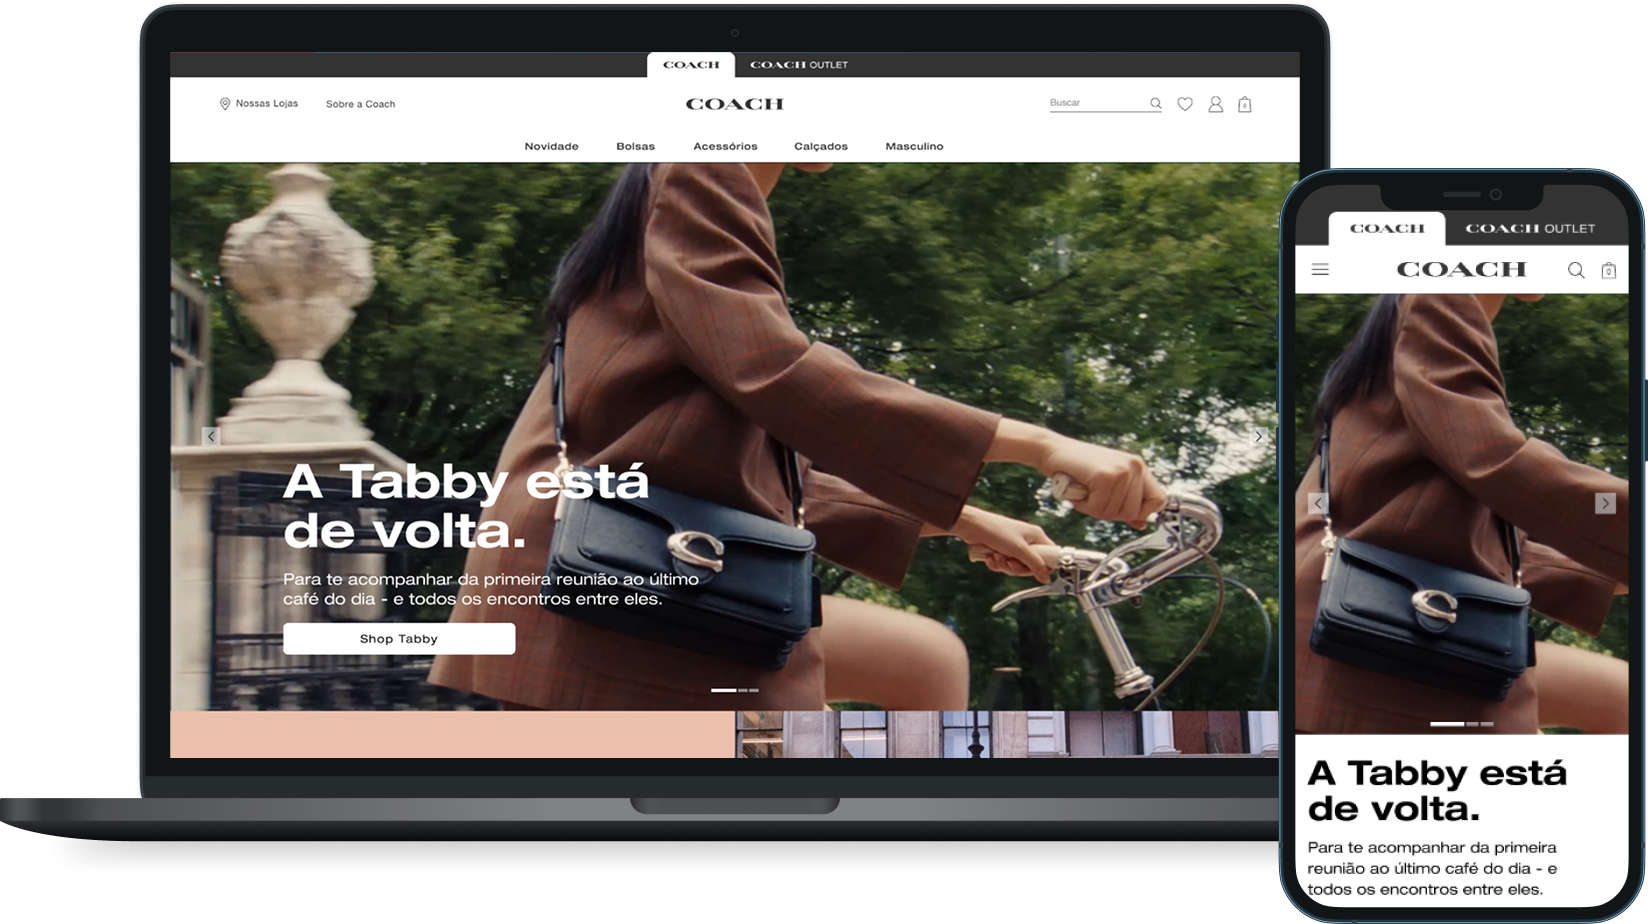
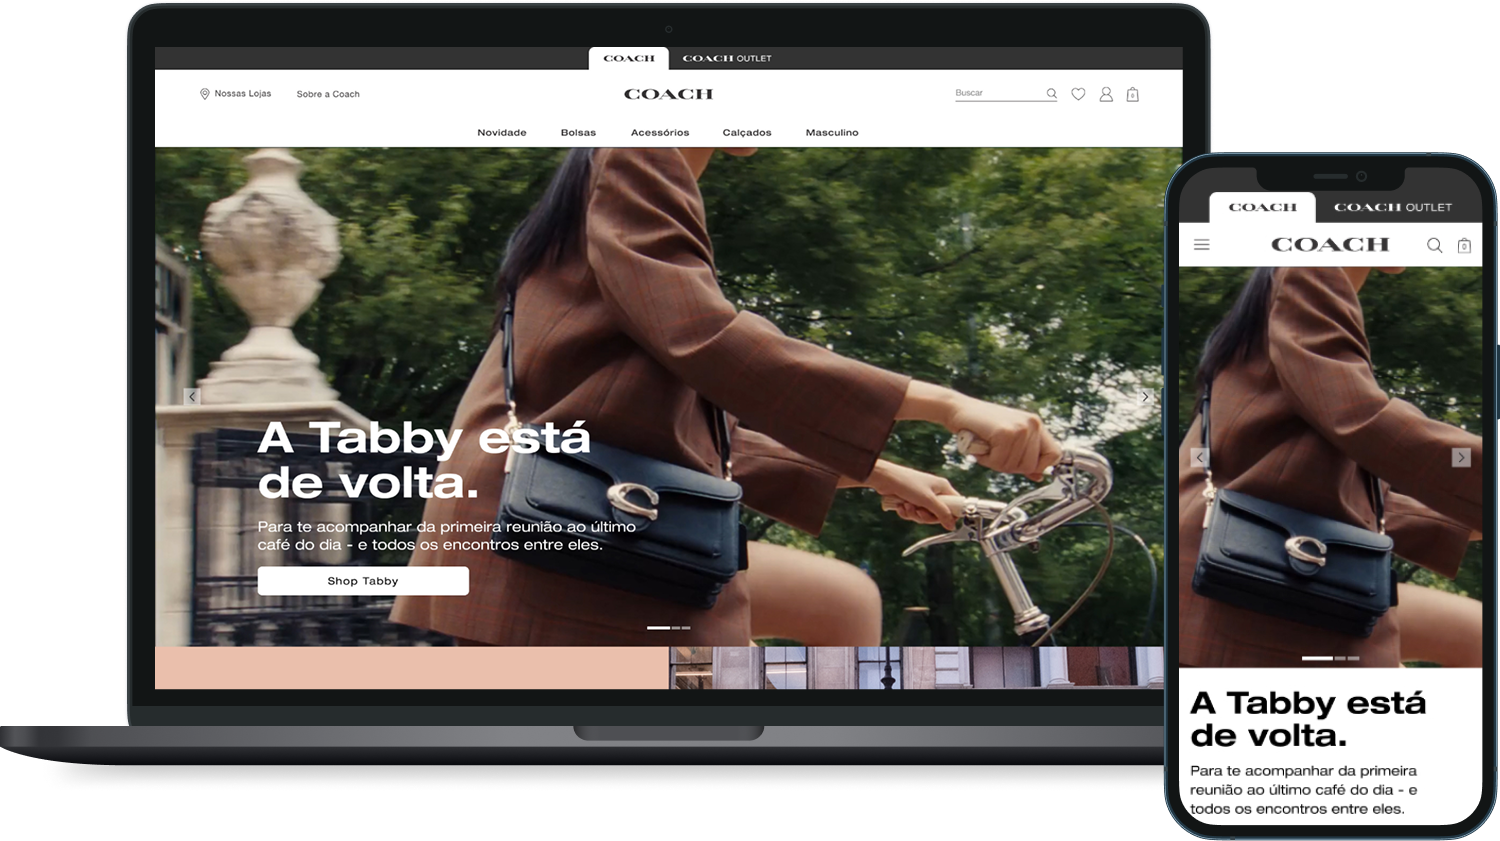
feat: add eager loading to images in Hero and HeroCases components

diff --git a/src/components/CasesPage/Hero.tsx b/src/components/CasesPage/Hero.tsx
@@ -40,7 +40,8 @@ export default function HeroCases({ project }: CaseProps) {
                     alt={project.title}
                     width={1000}
                     height={558.25}
-                    className="h-auto object-cover w-206 2xl:w-250"
+                    loading="eager"
+                    className="h-auto object-cover w-206 2xl:w-250 2xl:h-auto"
                 />
 
 

diff --git a/src/components/Hero/Hero.tsx b/src/components/Hero/Hero.tsx
@@ -39,6 +39,7 @@ export default function Hero() {
                                 alt="Profile Banner"
                                 width={470}
                                 height={124}
+                                loading="eager"
                                 className="rounded-2xl w-82.25 h-auto sm:w-124 sm:h-auto md:w-117.5 md:h-auto"
                             />
                             <Image
@@ -46,6 +47,7 @@ export default function Hero() {
                                 alt="Profile Picture"
                                 width={148}
                                 height={148}
+                                loading="eager"
                                 className="absolute w-28 h-auto sm:w-37 sm:h-auto -bottom-18 left-3"
                             />
                         </div>